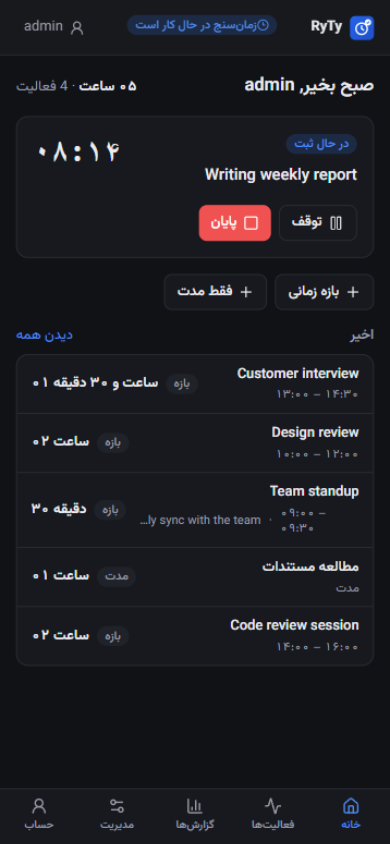
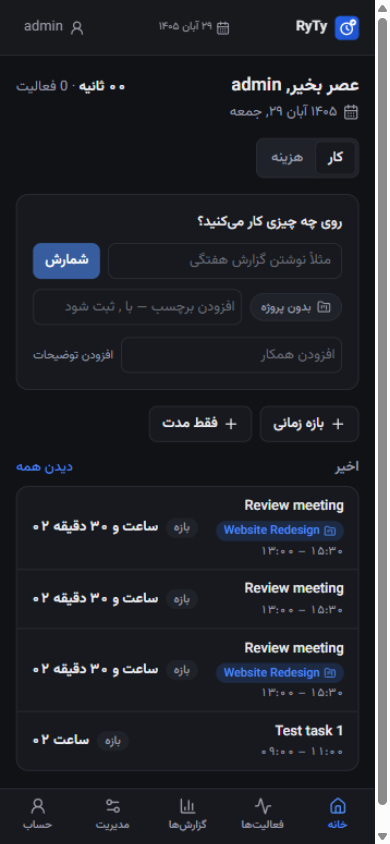
fix(projects): private project creation from the task dialog; feat: header date, amount grouping; docs: refresh screenshots
- Modal now renders through a portal to document.body: the picker's
  'New project' form was nested inside the task dialog's <form>, which
  made the browser submit natively (full reload) and lose the project.
  Escape now closes only the topmost dialog of a stack.
- Expense amount input groups the integer part in thousands while typing
  (formatAmountInput), compatible with parseAmountToMinor; unit-tested in
  the new frontend format.test.ts (vitest now includes frontend tests).
- Today's date shown in the app header: full-date chip on desktop,
  compact chip on mobile (hidden while the timer badge is visible),
  respecting language + the Jalali/Gregorian setting.
- Timer test deletes the activity it creates so date-based report
  assertions stay deterministic (failing whenever run on 2026-11-20).
- Screenshots refreshed for expenses, report filters and the header date;
  new expenses-desktop-light shot; removed 4 stale screenshots; READMEs,
  spec and test badges updated (97 passing).

diff --git a/frontend/src/components/AppShell.tsx b/frontend/src/components/AppShell.tsx
@@ -3,6 +3,7 @@ import { useTranslation } from "react-i18next";
 import {
   Activity,
   BarChart3,
+  CalendarDays,
   Clock3,
   Home,
   LogOut,
@@ -12,6 +13,7 @@ import {
 import { useAuth } from "../stores/AuthContext";
 import { useTimer } from "../stores/TimerContext";
 import { Badge } from "./ui";
+import { formatLocalDate, formatToday, todayIn } from "../utils/format";
 
 function NavItem({
   to,
@@ -72,9 +74,13 @@ function MobileNavItem({
  */
 export function AppShell() {
   const { t } = useTranslation();
-  const { user, logout } = useAuth();
+  const { user, language, logout } = useAuth();
   const { active } = useTimer();
   const navigate = useNavigate();
+
+  const timezone = user?.timezone ?? "UTC";
+  const dateFormat = user?.dateFormat ?? "gregorian";
+  const today = todayIn(timezone);
 
   const items = [
     { to: "/", icon: <Home className="size-4.5" />, label: t("nav.dashboard") },
@@ -114,6 +120,13 @@ export function AppShell() {
                 </Badge>
               </NavLink>
             )}
+            {/* Today's date in the calendar chosen in Admin → Settings. */}
+            <span className="hidden items-center gap-1.5 rounded-full border border-border bg-surface-2 px-2.5 py-1 text-xs text-muted md:inline-flex">
+              <CalendarDays className="size-3.5 shrink-0" aria-hidden />
+              <span className="whitespace-nowrap">
+                {formatToday(timezone, language, dateFormat)}
+              </span>
+            </span>
             <NavLink
               to="/account"
               className="flex items-center gap-2 rounded-[var(--radius)] px-2 py-1.5 text-sm text-muted hover:bg-surface-2 hover:text-text"
@@ -139,6 +152,16 @@ export function AppShell() {
           <img src="/favicon.svg" alt="" className="size-6" />
           RyTy
         </div>
+        {/* Compact date: short month/day + year; hidden while the timer
+            badge needs the room. */}
+        {!active && (
+          <span className="flex min-w-0 items-center gap-1 text-[11px] text-muted">
+            <CalendarDays className="size-3.5 shrink-0" aria-hidden />
+            <span className="truncate whitespace-nowrap">
+              {formatLocalDate(today, language, { year: "numeric", month: "short", day: "numeric" }, dateFormat)}
+            </span>
+          </span>
+        )}
         {active && (
           <NavLink to="/">
             <Badge tone="accent">

diff --git a/frontend/src/components/ui.tsx b/frontend/src/components/ui.tsx
@@ -1,4 +1,5 @@
 import { useEffect, useRef } from "react";
+import { createPortal } from "react-dom";
 import type { ButtonHTMLAttributes, InputHTMLAttributes, ReactNode, SelectHTMLAttributes, TextareaHTMLAttributes } from "react";
 import { X } from "lucide-react";
 
@@ -124,6 +125,12 @@ export function Badge({ tone = "neutral", children }: { tone?: BadgeTone; childr
 
 /* ------------------------------- Modal ------------------------------ */
 
+/**
+ * Portal-based dialog. Rendering into document.body keeps the overlay above
+ * everything else and — crucially — keeps a dialog's <form> out of any form
+ * it is opened from: a form nested inside another form breaks submit
+ * handling (the browser submits natively and React never sees the event).
+ */
 export function Modal({
   open,
   onClose,
@@ -142,14 +149,19 @@ export function Modal({
   useEffect(() => {
     if (!open) return;
     const onKey = (e: KeyboardEvent) => {
-      if (e.key === "Escape") onClose();
+      if (e.key !== "Escape") return;
+      // With stacked dialogs (opened from inside another dialog) only the
+      // topmost one — the last dialog in document order — reacts to Escape.
+      const dialogs = document.querySelectorAll("[role='dialog']");
+      if (dialogs.length > 0 && dialogs[dialogs.length - 1] !== ref.current) return;
+      onClose();
     };
     document.addEventListener("keydown", onKey);
     return () => document.removeEventListener("keydown", onKey);
   }, [open, onClose]);
 
   if (!open) return null;
-  return (
+  return createPortal(
     <div
       className="fixed inset-0 z-40 flex items-end justify-center bg-black/40 p-0 sm:items-center sm:p-4"
       onMouseDown={(e) => {
@@ -178,7 +190,8 @@ export function Modal({
         </div>
         {children}
       </div>
-    </div>
+    </div>,
+    document.body,
   );
 }
 

diff --git a/frontend/src/utils/format.test.ts b/frontend/src/utils/format.test.ts
@@ -1,0 +1,37 @@
+import { describe, it, expect } from "vitest";
+import { formatAmountInput, parseAmountToMinor } from "./format";
+
+describe("formatAmountInput", () => {
+  it("groups the integer part in thousands", () => {
+    expect(formatAmountInput("0")).toBe("0");
+    expect(formatAmountInput("12")).toBe("12");
+    expect(formatAmountInput("999")).toBe("999");
+    expect(formatAmountInput("1000")).toBe("1,000");
+    expect(formatAmountInput("1234567")).toBe("1,234,567");
+  });
+
+  it("keeps the decimal part as typed", () => {
+    expect(formatAmountInput("1234.5")).toBe("1,234.5");
+    expect(formatAmountInput("1234.56")).toBe("1,234.56");
+    expect(formatAmountInput("0.00")).toBe("0.00");
+  });
+
+  it("keeps a trailing dot while typing", () => {
+    expect(formatAmountInput("12.")).toBe("12.");
+    expect(formatAmountInput(".")).toBe(".");
+  });
+
+  it("strips separators and stray characters, then regroups", () => {
+    expect(formatAmountInput("1,234567")).toBe("1,234,567");
+    expect(formatAmountInput("1,234,567")).toBe("1,234,567");
+    expect(formatAmountInput(" 1a2b3 ")).toBe("123");
+    expect(formatAmountInput("1.2.3")).toBe("1.23");
+  });
+
+  it("stays compatible with parseAmountToMinor", () => {
+    const grouped = formatAmountInput("1234567");
+    expect(parseAmountToMinor(grouped)).toBe(123456700);
+    expect(parseAmountToMinor(formatAmountInput("1234.56"))).toBe(123456);
+    expect(parseAmountToMinor(grouped)).not.toBeNull();
+  });
+});

diff --git a/frontend/src/components/ExpenseSection.tsx b/frontend/src/components/ExpenseSection.tsx
@@ -6,7 +6,7 @@ import { api, ApiError } from "../services/api";
 import { useAuth } from "../stores/AuthContext";
 import { useToast } from "../stores/ToastContext";
 import { Button, Card, ConfirmDialog, EmptyState, Field, Input, Spinner, Textarea } from "./ui";
-import { formatAmount, parseAmountToMinor, todayIn } from "../utils/format";
+import { formatAmount, formatAmountInput, parseAmountToMinor, todayIn } from "../utils/format";
 
 /**
  * Expense quick entry: an inline form (title, amount, date) above the
@@ -135,7 +135,7 @@ export function ExpenseSection() {
                 className="sm:w-36"
                 value={amountText}
                 placeholder="0.00"
-                onChange={(e) => setAmountText(e.target.value)}
+                onChange={(e) => setAmountText(formatAmountInput(e.target.value))}
               />
             </Field>
           </div>
@@ -235,7 +235,7 @@ export function ExpenseSection() {
                       onClick={() => {
                         setEditing(expense);
                         setTitle(expense.title);
-                        setAmountText(String(expense.amountMinor / 100));
+                        setAmountText(formatAmountInput(String(expense.amountMinor / 100)));
                         setDate(expense.occurredOn);
                         setDescription(expense.description ?? "");
                         setShowDescription(Boolean(expense.description));

diff --git a/frontend/src/utils/format.ts b/frontend/src/utils/format.ts
@@ -149,6 +149,22 @@ export function parseAmountToMinor(input: string): number | null {
   return Number.isFinite(minor) && minor > 0 ? minor : null;
 }
 
+/**
+ * Normalise a user-typed amount for display in an input: strip everything
+ * but digits and dots, then group the integer part in thousands with ",".
+ * Typing stays ASCII so `parseAmountToMinor` can consume the value as-is.
+ * "1234567.8" → "1,234,567.8"; "12." keeps its trailing dot mid-typing.
+ */
+export function formatAmountInput(raw: string): string {
+  const cleaned = raw.replace(/[^0-9.]/g, "");
+  const dot = cleaned.indexOf(".");
+  const int = dot === -1 ? cleaned : cleaned.slice(0, dot);
+  const frac = dot === -1 ? "" : cleaned.slice(dot + 1).replace(/\./g, "");
+  const grouped = int.replace(/\B(?=(\d{3})+(?!\d))/g, ",");
+  if (dot === -1) return grouped;
+  return frac ? `${grouped}.${frac}` : `${grouped}.`;
+}
+
 /** Greeting key by local hour in the user timezone. */export function greetingByHour(hour: number): "morning" | "afternoon" | "evening" {
   if (hour < 12) return "morning";
   if (hour < 18) return "afternoon";

diff --git a/backend/tests/app.test.ts b/backend/tests/app.test.ts
@@ -252,6 +252,10 @@ describe("timer lifecycle", () => {
     expect(stopped.json.data.durationSeconds).toBeGreaterThanOrEqual(2);
     expect(stopped.json.data.startedAt).not.toBeNull();
 
+    // The timed activity lands on the real current date with real elapsed
+    // seconds; delete it so date-based report assertions stay deterministic.
+    await call("DELETE", `/api/activities/${stopped.json.data.id}`, undefined, adminCookie);
+
     const active = await call("GET", "/api/timer/active", undefined, adminCookie);
     expect(active.json.data).toBeNull();
   }, 15000);

diff --git a/frontend/src/components/ProjectPicker.tsx b/frontend/src/components/ProjectPicker.tsx
@@ -165,6 +165,9 @@ export function CreateProjectModal({ open, isAdmin, onClose, onCreated, createPr
 
   const submit = async (e: React.FormEvent) => {
     e.preventDefault();
+    // The modal is opened from inside another dialog's form; keep the submit
+    // from bubbling through the React tree into that outer form.
+    e.stopPropagation();
     if (!name.trim()) return;
     setSaving(true);
     setError(null);

diff --git a/vitest.config.ts b/vitest.config.ts
@@ -8,7 +8,7 @@ export default defineConfig({
     },
   },
   test: {
-    include: ["backend/tests/**/*.test.ts"],
+    include: ["backend/tests/**/*.test.ts", "frontend/src/**/*.test.ts"],
     environment: "node",
     // Each test file gets its own process; the libsql native driver is happy there.
     pool: "forks",

diff --git a/README.fa.md b/README.fa.md
@@ -9,7 +9,7 @@
 **ردیابی ساده و سریع فعالیت و زمان تیم — موبایلمحور و کمحجم**
 
 [![CI](https://img.shields.io/badge/CI-GitHub_Actions-blue?logo=githubactions)](.github/workflows/ci.yml)
-![Tests](https://img.shields.io/badge/tests-92%20passing-brightgreen)
+![Tests](https://img.shields.io/badge/tests-97%20passing-brightgreen)
 ![License](https://img.shields.io/badge/license-MIT-informational)
 ![i18n](https://img.shields.io/badge/i18n-English%20%7C%20%D9%81%D8%A7%D8%B1%D8%B3%DB%8C-blueviolet)
 
@@ -31,8 +31,8 @@
 
 - ⏱ **زمانسنج** — شروع / توقف / ادامه / پایان / لغو؛ محاسبهٔ زمان **سمت سرور** است و با رفرش یا بستن مرورگر از بین نمیرود
 - ✍ **ثبت دستی** — بازهٔ زمانی (با تشخیص همپوشانی) یا فقط مدت
-- 💸 **هزینهها** — ثبت سریع هزینه از تب دوم صفحهٔ خانه؛ واحد پول از تنظیمات مدیر (TMN، IRR، USD و…)
-- 🗓 **نمایش تاریخ جلالی یا میلادی** — تنظیم مدیر؛ دادههای ذخیرهشده همیشه میلادی/UTC میمانند
+- 💸 **هزینهها** — ثبت سریع هزینه از تب دوم صفحهٔ خانه، با ورودی مبلغ جداکنندهٔ هزارگان؛ واحد پول از تنظیمات مدیر (TMN، IRR، USD و…)
+- 🗓 **نمایش تاریخ جلالی یا میلادی** — تنظیم مدیر؛ دادههای ذخیرهشده همیشه میلادی/UTC میمانند و تاریخ امروز در هدر برنامه نشان داده میشود
 - 📁 **پروژهها** — مدیر پروژههای عمومی (برای همهٔ تیم) یا خصوصی تعریف میکند؛ کاربران میتوانند پروژه خودشان را بسازند یا به مدیر پیشنهاد دهند؛ هر کس میتواند **پروژه پیشفرض** خود را انتخاب کند
 - 🏷 **برچسبها** — برچسبهای عمومی که همه میسازند؛ کافی است نام برچسب را بنویسید و با `,` آن را اضافه کنید (با پیشنهاد لحظهای)
 - 👥 **همکاران** — برای هر فعالیت، همکار (جفتاجراکننده) اضافه کنید؛ آنها فعالیت را در فهرست خود میبینند و میتوانند ویرایش یا حذفش کنند، اما زمان به شما تعلق میگیرد
@@ -47,7 +47,7 @@
 
 ## 🖼 تصاویر برنامه
 
-| داشبورد (موبایل، تیره)                                        | داشبورد فارسی (راستبهچپ)                                     |
+| داشبورد (موبایل، تیره)                                        | داشبورد فارسی (راستبهچپ، تاریخ جلالی)                        |
 | ------------------------------------------------------------- | -------------------------------------------------------------- |
 | ![داشبورد موبایل](docs/screenshots/dashboard-mobile-dark.png) | ![داشبورد فارسی](docs/screenshots/dashboard-mobile-fa-rtl.png) |
 
@@ -55,9 +55,17 @@
 | --------------------------------------------------- | --------------------------------------------------------- |
 | ![زمانسنج](docs/screenshots/timer-mobile-dark.png) | ![فعالیتها](docs/screenshots/activities-mobile-dark.png) |
 
-| داشبورد دسکتاپ (روشن)                                           | گزارشها (دسکتاپ)                                       |
-| --------------------------------------------------------------- | ------------------------------------------------------- |
-| ![داشبورد دسکتاپ](docs/screenshots/dashboard-desktop-light.png) | ![گزارشها](docs/screenshots/reports-desktop-light.png) |
+| داشبورد دسکتاپ (روشن)                                           | هزینهها (دسکتاپ، روشن)                                  |
+| --------------------------------------------------------------- | -------------------------------------------------------- |
+| ![داشبورد دسکتاپ](docs/screenshots/dashboard-desktop-light.png) | ![هزینهها](docs/screenshots/expenses-desktop-light.png) |
+
+| گزارشها (موبایل)                                             | مدیریت — پروژهها                                                     |
+| ------------------------------------------------------------- | --------------------------------------------------------------------- |
+| ![گزارشها موبایل](docs/screenshots/reports-mobile-dark.png) | ![مدیریت پروژهها](docs/screenshots/admin-projects-desktop-dark.png) |
+
+| گزارشها (دسکتاپ)                                       |
+| ------------------------------------------------------- |
+| ![گزارشها](docs/screenshots/reports-desktop-light.png) |
 
 ## 🚀 شروع سریع
 
@@ -135,7 +143,7 @@ docker compose up -d --build
 
 ```bash
 npm run typecheck   # بررسی نوع سختگیرانه
-npm test            # ۹۲ تست واحد و یکپارچه
+npm test            # ۹۷ تست واحد و یکپارچه
 npm run build       # ساخت تولیدی کلاینت و سرور
 ```
 

diff --git a/README.md b/README.md
@@ -9,7 +9,7 @@
 **ردیابی ساده و سریع فعالیت و زمان تیم — موبایلمحور و کمحجم**
 
 [![CI](https://img.shields.io/badge/CI-GitHub_Actions-blue?logo=githubactions)](.github/workflows/ci.yml)
-![Tests](https://img.shields.io/badge/tests-92%20passing-brightgreen)
+![Tests](https://img.shields.io/badge/tests-97%20passing-brightgreen)
 ![License](https://img.shields.io/badge/license-MIT-informational)
 ![i18n](https://img.shields.io/badge/i18n-English%20%7C%20%D9%81%D8%A7%D8%B1%D8%B3%DB%8C-blueviolet)
 
@@ -29,8 +29,8 @@ RyTy is a lightweight tool for teams to record **what** they worked on, **how lo
 
 - ⏱ **Timer tracking** — start / pause / resume / stop / cancel; timekeeping is computed **server-side** and survives refreshes and closed tabs
 - ✍ **Manual entry** — time range (with overlap detection) or duration-only
-- 💸 **Expenses** — quick expense entry from a second Home tab; admin-configurable currency label (TMN, IRR, USD, …)
-- 🗓 **Jalali or Gregorian display** — admin setting; all data stays UTC/Gregorian underneath
+- 💸 **Expenses** — quick expense entry from a second Home tab, with a thousands-separated amount input; admin-configurable currency label (TMN, IRR, USD, …)
+- 🗓 **Jalali or Gregorian display** — admin setting; all data stays UTC/Gregorian underneath, and today's date shows in the app header
 - 📁 **Projects** — admins define public (team-wide) or private projects; users can create their own or suggest one to the admin for public review; everyone can pick a **default project**
 - 🏷 **Tags** — public tags anyone can create; type a tag and press `,` to attach it, with instant autocomplete
 - 👥 **Co-doers** — add teammates to any task as pair-doers; they see it in their own list and can edit or delete it, while time stays attributed to you
@@ -45,7 +45,7 @@ RyTy is a lightweight tool for teams to record **what** they worked on, **how lo
 
 ## 🖼 Screenshots
 
-| Mobile (dark)                                                        | Mobile — Persian RTL                                                   |
+| Mobile (dark)                                                        | Mobile — Persian RTL (Jalali date)                                     |
 | -------------------------------------------------------------------- | ---------------------------------------------------------------------- |
 | ![Dashboard mobile dark](docs/screenshots/dashboard-mobile-dark.png) | ![Dashboard Persian RTL](docs/screenshots/dashboard-mobile-fa-rtl.png) |
 
@@ -53,13 +53,17 @@ RyTy is a lightweight tool for teams to record **what** they worked on, **how lo
 | -------------------------------------------------------- | ---------------------------------------------------------- |
 | ![Timer running](docs/screenshots/timer-mobile-dark.png) | ![Activities](docs/screenshots/activities-mobile-dark.png) |
 
-| Desktop dashboard (light)                                          | Desktop reports (light)                                        |
-| ------------------------------------------------------------------ | -------------------------------------------------------------- |
-| ![Dashboard desktop](docs/screenshots/dashboard-desktop-light.png) | ![Reports desktop](docs/screenshots/reports-desktop-light.png) |
+| Desktop dashboard (light)                                          | Expenses (desktop, light)                                        |
+| ------------------------------------------------------------------ | ---------------------------------------------------------------- |
+| ![Dashboard desktop](docs/screenshots/dashboard-desktop-light.png) | ![Expenses desktop](docs/screenshots/expenses-desktop-light.png) |
 
 | Reports (mobile)                                            | Administration — projects                                           |
 | ----------------------------------------------------------- | ------------------------------------------------------------------- |
 | ![Reports mobile](docs/screenshots/reports-mobile-dark.png) | ![Admin projects](docs/screenshots/admin-projects-desktop-dark.png) |
+
+| Desktop reports (light)                                        |
+| -------------------------------------------------------------- |
+| ![Reports desktop](docs/screenshots/reports-desktop-light.png) |
 
 ## 🏗 Architecture
 
@@ -175,7 +179,7 @@ Cloudflare uses the same names as Worker **vars** (non-secrets) and **secrets** 
 
 ```bash
 npm run typecheck   # strict TS across frontend / backend / shared
-npm test            # 92 unit + integration tests (vitest)
+npm test            # 97 unit + integration tests (vitest)
 npm run build       # production client + server build
 ```
 

diff --git a/PROJECT-SPECIFICATION.md b/PROJECT-SPECIFICATION.md
@@ -48,10 +48,11 @@ overlap check.
 
 A second Home-page entry tab ("Task" / "Expense"). Expenses record **what
 was spent**: `title`, optional `description`, `amount`, and a grouping date.
-Amounts are stored as integer **minor units** (no floating-point money). The
-currency label (e.g. `TMN`, `IRR`, `USD`) is an application-wide admin
-setting shown next to every amount. Expenses support soft delete and the
-same visibility rules as activities (admins / `all_users` see the team;
+Amounts are stored as integer **minor units** (no floating-point money);
+the amount input groups the integer part in thousands (`1,234,567`) while
+typing. The currency label (e.g. `TMN`, `IRR`, `USD`) is an application-wide
+admin setting shown next to every amount. Expenses support soft delete and
+the same visibility rules as activities (admins / `all_users` see the team;
 everyone else sees only their own). Only the owner can edit or delete an
 expense.
 
@@ -174,6 +175,9 @@ reusable later via account settings.
 
 - **Mobile-first**: bottom navigation on mobile, restrained compact
   navigation on desktop; touch-friendly; no horizontal scrolling.
+- **App header**: shows today's date in the configured Jalali/Gregorian
+  calendar (full format on desktop, compact on mobile; the mobile chip
+  yields its space to the active-timer badge).
 - **Dashboard** (home after login): compact greeting with today's full date
   (rendered with the configured Jalali/Gregorian calendar), prominent
   activity input, timer controls (pause/resume, stop, cancel), manual-entry
